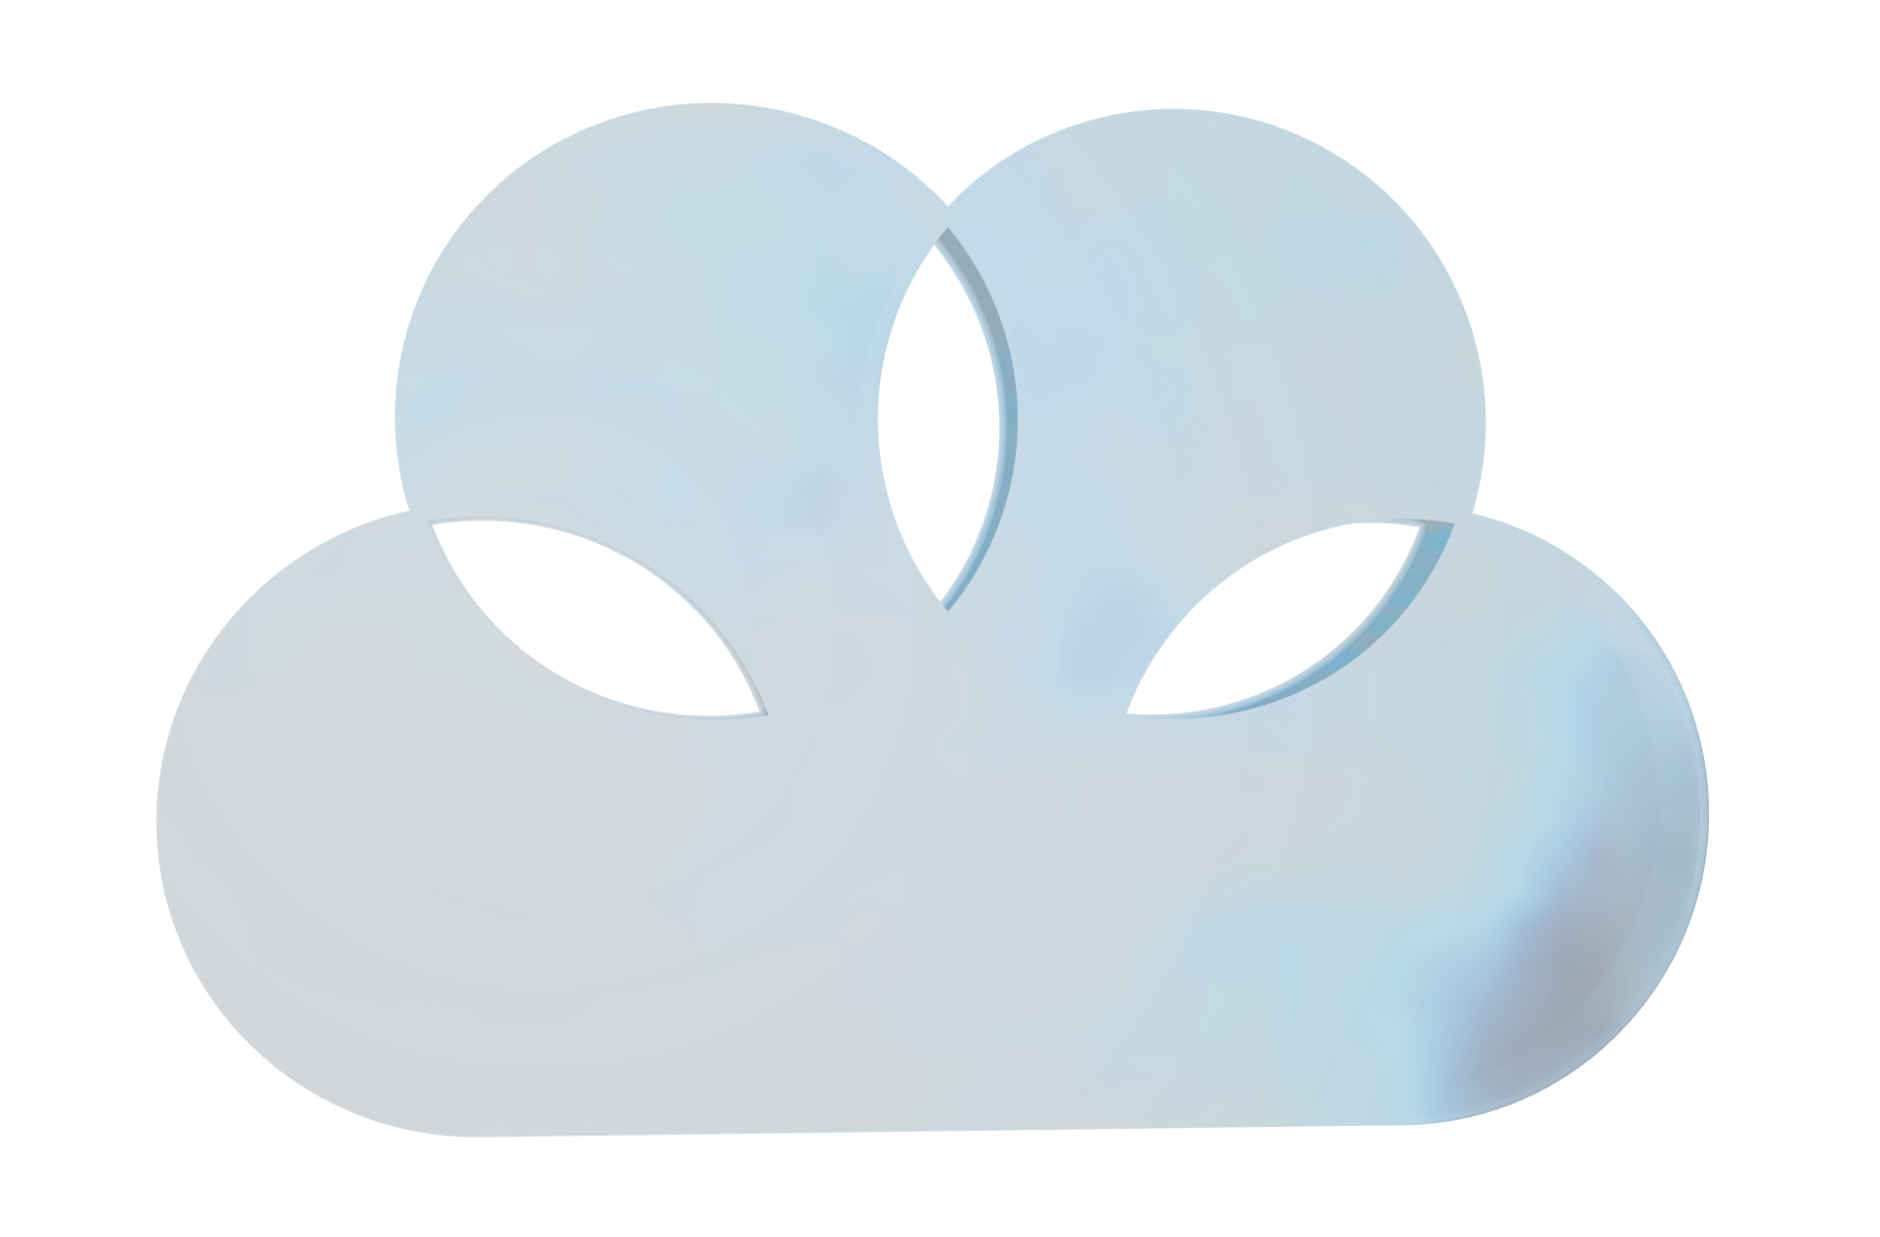
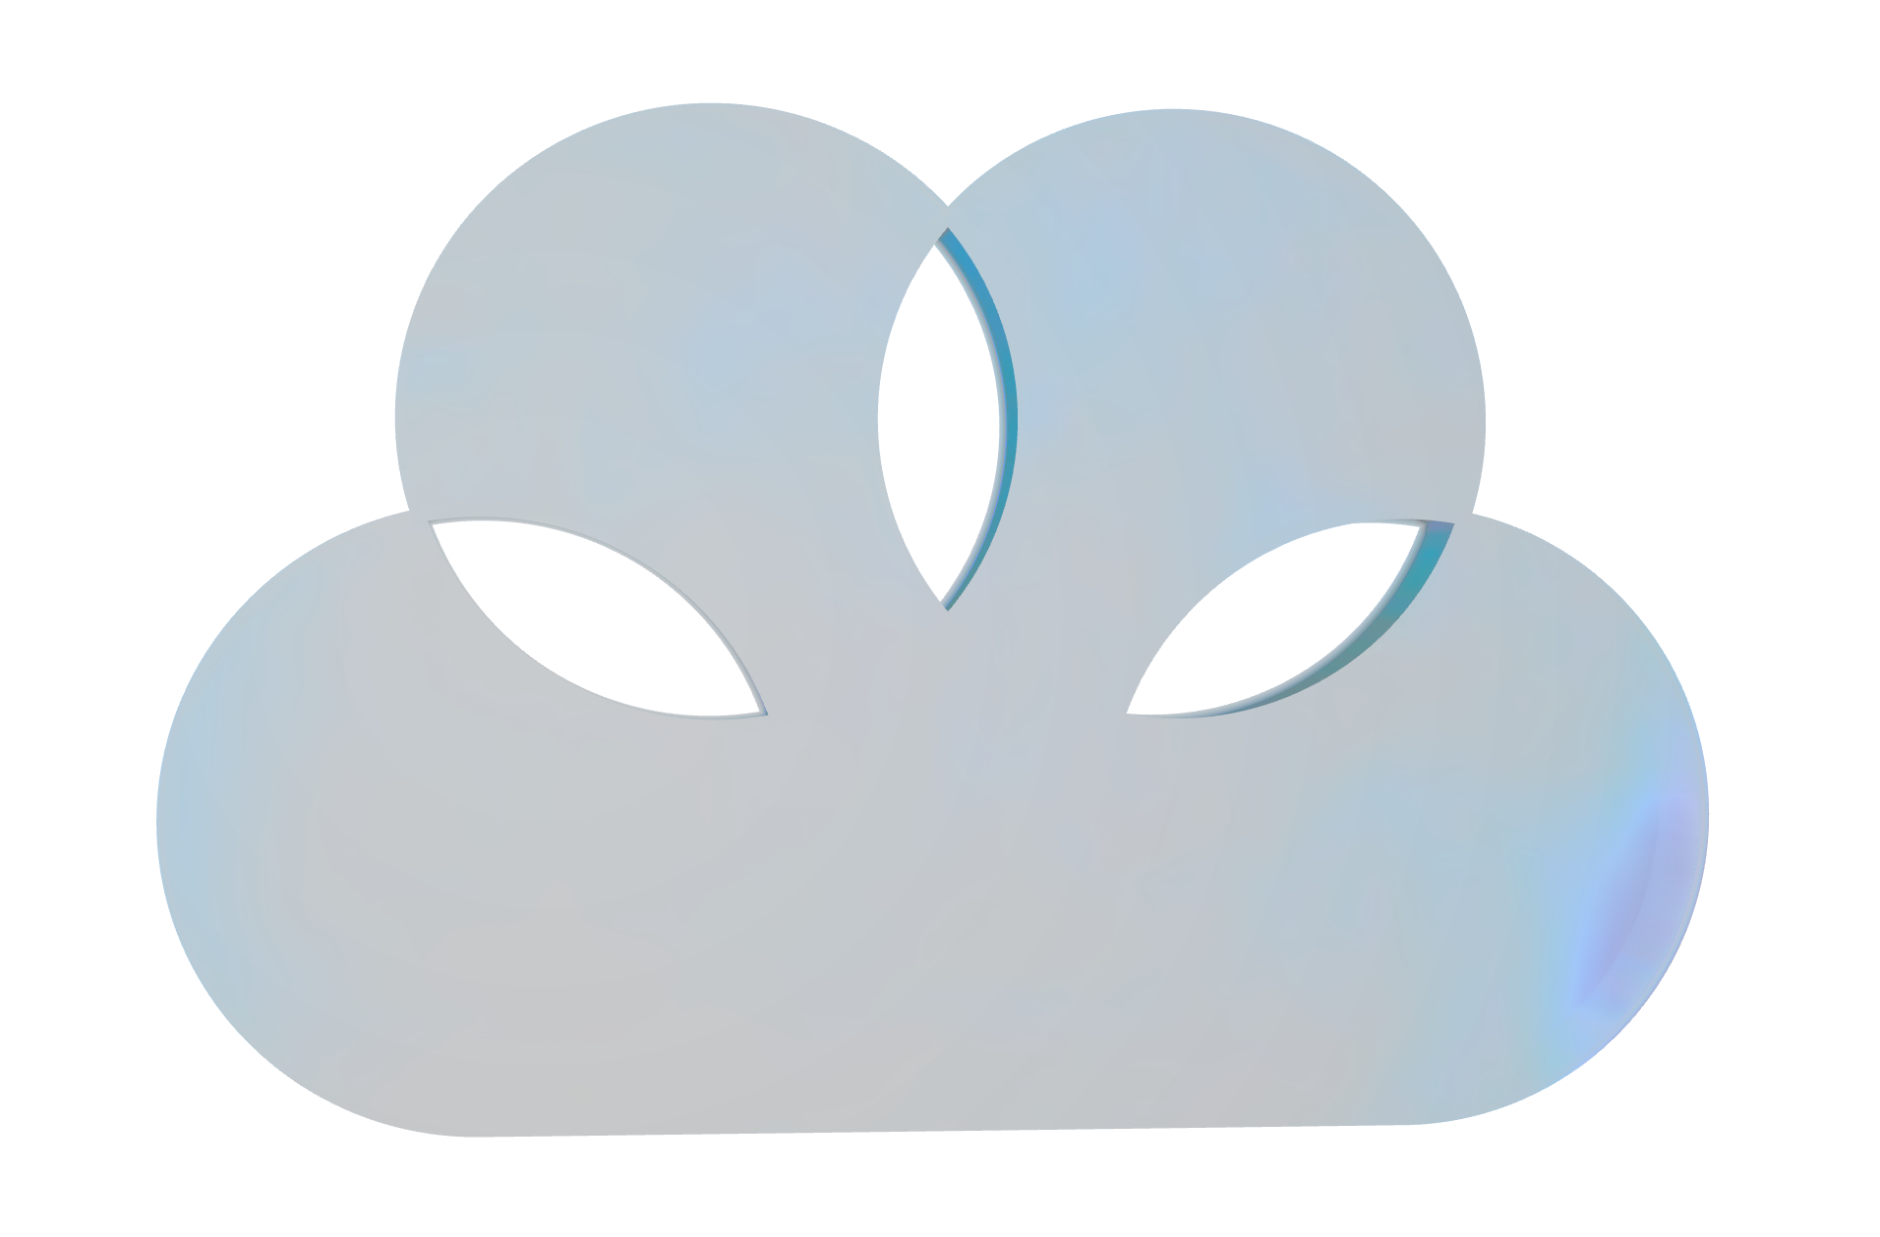
update render

diff --git a/packages/logo-renderer/src/renderer/index.tsx b/packages/logo-renderer/src/renderer/index.tsx
@@ -31,6 +31,7 @@ import {
 	syncPointerInteractionMode,
 } from "./runtime/pointer-input";
 import type { HeroRuntimeState } from "./runtime/state";
+import { ENV_BASE_YAW } from "./runtime/environment-input";
 
 const LOGO_VIEWPORT_ASPECT = 1.52;
 
@@ -39,7 +40,7 @@ const DEFAULT_CONTROLS: RenderControls = {
 	pitch: 0,
 	radius: cameraRadiusForFov(DEFAULT_CAMERA_FOV),
 	fov: DEFAULT_CAMERA_FOV,
-	envYaw: 0,
+	envYaw: ENV_BASE_YAW,
 	envPitch: 0,
 	insideRendering: true,
 	outsideRendering: true,
@@ -152,6 +153,8 @@ export type LocalAiLogoShaderProps = LogoRendererAssets & {
 	sx?: Parameters<typeof stylex.props>[0] | undefined;
 	/** Camera framing aspect; defaults to the hero stage's 1.52. */
 	viewportAspect?: number | undefined;
+	/** Enables the pointer-painted square imprint. */
+	paintOnHover?: boolean | undefined;
 	/** Locks the canonical environment for decorative instances; the object still follows the cursor. */
 	staticPose?: boolean | undefined;
 };
@@ -164,6 +167,7 @@ export function LocalAiLogoShader({
 	onFirstFrame,
 	sx,
 	viewportAspect = LOGO_VIEWPORT_ASPECT,
+	paintOnHover = true,
 	staticPose = false,
 }: LocalAiLogoShaderProps) {
 	const prefersReducedMotion = usePrefersReducedMotion();
@@ -281,6 +285,7 @@ export function LocalAiLogoShader({
 			lastRippleSpawnTime: Number.NEGATIVE_INFINITY,
 			pointerInsideCanvas: false,
 			isCoarsePointer: coarsePointerRef.current,
+			paintOnHover,
 		};
 		stateRef.current = state;
 
@@ -383,9 +388,7 @@ export function LocalAiLogoShader({
 				return;
 			}
 			const rendererOptions: NonNullable<Parameters<typeof createEve5Renderer>[2]> = {
-				// The hero surface is always dark. Day/night only selects the cubemap;
-				// it must not switch to the pale light-mode mask composite.
-				theme: "dark",
+				theme: prefersDarkScheme ? "dark" : "light",
 				bloom: true,
 				backRefraction: true,
 			};
@@ -464,6 +467,7 @@ export function LocalAiLogoShader({
 		modelUrl,
 		dayUrl,
 		nightUrl,
+		paintOnHover,
 		coarsePointerRef,
 		handleCanvasRevealed,
 		handleFallback,

diff --git a/tests/unit/renderer-pointer.spec.ts b/tests/unit/renderer-pointer.spec.ts
@@ -20,34 +20,35 @@ test("renderer environment interaction follows its own bounds", () => {
 	});
 	expect(translated).toEqual(localPoint);
 	expect(mapAt(0.5, 0.5)).toEqual({
-		envYaw: 0,
+		envYaw: 0.9,
 		envPitch: 0,
 		normalizedX: 0,
 		normalizedY: 0,
 	});
 });
 
-test("a local vertical band scrubs one smooth orbital day path", () => {
+test("vertical movement tilts the environment without crossing dull cubemap faces", () => {
 	const above = mapAt(0.5, -0.25);
 	const below = mapAt(0.5, 1.25);
 	const farAbove = mapAt(0.5, -1);
 	const farBelow = mapAt(0.5, 2);
 	expect(above.normalizedY).toBe(-1);
 	expect(below.normalizedY).toBe(1);
-	expect(above.envYaw).toBeLessThan(-2);
-	expect(below.envYaw).toBeGreaterThan(2);
-	expect(above.envPitch).toBeLessThan(0);
-	expect(below.envPitch).toBeGreaterThan(0);
+	expect(above.envYaw).toBe(0.9);
+	expect(below.envYaw).toBe(0.9);
+	expect(above.envPitch).toBe(-0.24);
+	expect(below.envPitch).toBe(0.24);
 	expect(farAbove).toEqual(above);
 	expect(farBelow).toEqual(below);
 });
 
-test("horizontal movement cannot change the lighting cycle", () => {
+test("horizontal movement rotates within the reflective cubemap sector", () => {
 	const left = mapAt(0, 0.65);
 	const center = mapAt(0.5, 0.65);
 	const right = mapAt(1, 0.65);
-	expect(left.envYaw).toBe(center.envYaw);
-	expect(right.envYaw).toBe(center.envYaw);
+	expect(left.envYaw).toBeCloseTo(0.35);
+	expect(center.envYaw).toBe(0.9);
+	expect(right.envYaw).toBeCloseTo(1.45);
 	expect(left.envPitch).toBe(center.envPitch);
 	expect(right.envPitch).toBe(center.envPitch);
 });

diff --git a/src/styles/sections-styles.ts b/src/styles/sections-styles.ts
@@ -18,8 +18,8 @@ const storyDemoEnter = stylex.keyframes({
 const pageWidth = `min(${lengths.pageWidth}, calc(100% - ${lengths.pageGutter}))`;
 const heroStagePadding = `calc((100% - ${pageWidth}) / 2)`;
 const heroStageClippedWidth = `calc(100% - ${heroStagePadding})`;
-const scrimAmbient = `color-mix(in oklab, ${colors.background} 48%, transparent)`;
-const scrimDirect = `color-mix(in oklab, ${colors.background} 32%, transparent)`;
+const scrimAmbient = `color-mix(in oklab, ${colors.background} 28%, transparent)`;
+const scrimDirect = `color-mix(in oklab, ${colors.background} 68%, transparent)`;
 const kittyCarouselGutter = `max(24px, calc((100vw - ${lengths.pageWidth}) / 2))`;
 const kittyCardWidth = "min(620px, calc(100vw - 48px))";
 
@@ -66,7 +66,7 @@ export const styles = stylex.create({
 		inset: { default: null, "::before": "-18% -22%" },
 		backgroundImage: {
 			default: null,
-			"::before": `radial-gradient(ellipse 68% 62% at 50% 44%, ${scrimAmbient}, transparent 72%), radial-gradient(ellipse 44% 46% at 50% 40%, ${scrimDirect}, transparent 70%)`,
+			"::before": `radial-gradient(ellipse 68% 62% at 50% 44%, ${scrimAmbient}, transparent 72%), radial-gradient(ellipse 34% 36% at 50% 40%, ${scrimDirect}, transparent 70%)`,
 		},
 		pointerEvents: { default: null, "::before": "none" },
 	},
@@ -483,7 +483,7 @@ export const styles = stylex.create({
 		},
 		overscrollBehaviorX: "contain",
 		scrollbarWidth: "none",
-		touchAction: "pan-y",
+		touchAction: "pan-x pan-y",
 		"::-webkit-scrollbar": {
 			display: "none",
 		},

diff --git a/tests/unit/serve.spec.ts b/tests/unit/serve.spec.ts
@@ -1,0 +1,36 @@
+import { mkdtempSync, rmSync, writeFileSync } from "node:fs";
+import { tmpdir } from "node:os";
+import path from "node:path";
+import { afterEach, expect, test } from "bun:test";
+import { staticResponse } from "../../scripts/serve.mjs";
+
+const directories: string[] = [];
+
+afterEach(() => {
+	for (const directory of directories.splice(0)) {
+		rmSync(directory, { recursive: true, force: true });
+	}
+});
+
+test("dev routes return a retry response while the build output is missing", async () => {
+	const root = mkdtempSync(path.join(tmpdir(), "localstudio-serve-"));
+	directories.push(root);
+
+	const building = staticResponse("/", root, true);
+	expect(building?.status).toBe(503);
+	expect(building?.headers.get("retry-after")).toBe("1");
+	expect(await building?.text()).toContain("Building");
+
+	writeFileSync(path.join(root, "index.html"), "<body>Ready</body>");
+	const ready = staticResponse("/", root, true);
+	expect(ready?.status).toBe(200);
+	expect(ready?.headers.get("cache-control")).toBe("no-store");
+	expect(await ready?.text()).toContain("/__stamp");
+});
+
+test("preview routes still fail when the production build is missing", () => {
+	const root = mkdtempSync(path.join(tmpdir(), "localstudio-serve-"));
+	directories.push(root);
+
+	expect(() => staticResponse("/", root, false)).toThrow(/ENOENT/);
+});

diff --git a/packages/logo-renderer/src/renderer/runtime/pointer-input.ts b/packages/logo-renderer/src/renderer/runtime/pointer-input.ts
@@ -107,6 +107,7 @@ export function createPointerController({
     if (
       !canvas ||
       !mesh ||
+      !state.paintOnHover ||
       event.pointerType !== "mouse" ||
       !evePointerInteractionMode(state.isCoarsePointer).paintEnabled
     ) {
@@ -191,8 +192,15 @@ export function createPointerController({
   const onPointerMove = (event: PointerEvent) => {
     updateEnvRotation(event.clientX, event.clientY);
     updatePaintBrush(event);
-    const inside = event.pointerType === "mouse" && pointerInsideRect(event.clientX, event.clientY);
-    if (inside && !state.pointerInsideCanvas && evePointerInteractionMode(state.isCoarsePointer).paintEnabled) {
+    const inside =
+      state.paintOnHover &&
+      event.pointerType === "mouse" &&
+      pointerInsideRect(event.clientX, event.clientY);
+    if (
+      inside &&
+      !state.pointerInsideCanvas &&
+      evePointerInteractionMode(state.isCoarsePointer).paintEnabled
+    ) {
       spawnRippleAtBrushCell();
     }
     state.pointerInsideCanvas = inside;

diff --git a/src/sections/Hero.tsx b/src/sections/Hero.tsx
@@ -16,6 +16,13 @@ const HeroDemo = lazy(() =>
 );
 
 const settle = { opacity: 1, y: 0, filter: "blur(0px)" };
+const resumeAfterDevReload =
+	!import.meta.env.PROD &&
+	(globalThis.sessionStorage?.getItem("localstudio:dev-reload") === "1" ||
+		globalThis.performance
+			?.getEntriesByType("navigation")
+			.some((entry) => entry.toJSON().type === "reload"));
+globalThis.sessionStorage?.removeItem("localstudio:dev-reload");
 
 const fastClock = {
 	now: () => Date.now(),
@@ -40,7 +47,7 @@ export function Hero() {
 	const clock = useHeroClock();
 	const reduceMotion = useReducedMotion();
 	const enter = (delay: number) => ({
-		initial: reduceMotion ? false : { opacity: 0, y: 12, filter: "blur(6px)" },
+		initial: reduceMotion || resumeAfterDevReload ? false : { opacity: 0, y: 12, filter: "blur(6px)" },
 		animate: settle,
 		transition: { ...motion.heroEnter, delay },
 	});

diff --git a/packages/logo-renderer/src/renderer/runtime/environment-input.ts b/packages/logo-renderer/src/renderer/runtime/environment-input.ts
@@ -1,7 +1,8 @@
 const ENV_EFFECTIVE_HALF_WIDTH_RATIO = 0.5;
 const ENV_EFFECTIVE_HALF_HEIGHT_RATIO = 0.75;
-const ENV_DAY_YAW_RANGE = Math.PI * 0.72;
-const ENV_ORBIT_TILT = 0.45;
+export const ENV_BASE_YAW = 0.9;
+export const ENV_HORIZONTAL_YAW_RANGE = 0.55;
+const ENV_VERTICAL_PITCH_RANGE = 0.24;
 
 function clampSigned(value: number) {
   return Math.max(-1, Math.min(1, value));
@@ -24,10 +25,9 @@ export function mapPointerToLocalEnvironment({
   const normalizedY = clampSigned(
     (clientY - centerY) / Math.max(1, rect.height * ENV_EFFECTIVE_HALF_HEIGHT_RATIO),
   );
-  const dayPhase = normalizedY * ENV_DAY_YAW_RANGE;
   return {
-    envYaw: dayPhase,
-    envPitch: Math.sin(dayPhase) * ENV_ORBIT_TILT,
+    envYaw: ENV_BASE_YAW + normalizedX * ENV_HORIZONTAL_YAW_RANGE,
+    envPitch: normalizedY * ENV_VERTICAL_PITCH_RANGE,
     normalizedX,
     normalizedY,
   };

diff --git a/tests/unit/build-watch.spec.ts b/tests/unit/build-watch.spec.ts
@@ -1,0 +1,27 @@
+import { mkdtempSync, readFileSync, rmSync, writeFileSync } from "node:fs";
+import { tmpdir } from "node:os";
+import path from "node:path";
+import { afterEach, expect, test } from "bun:test";
+import { sourceStamp } from "../../scripts/build.mjs";
+
+const directories: string[] = [];
+
+afterEach(() => {
+	for (const directory of directories.splice(0)) {
+		rmSync(directory, { recursive: true, force: true });
+	}
+});
+
+test("source stamps ignore read-only filesystem events", () => {
+	const root = mkdtempSync(path.join(tmpdir(), "localstudio-watch-"));
+	directories.push(root);
+	const file = path.join(root, "asset.png");
+	writeFileSync(file, "asset");
+	const before = sourceStamp([root]);
+
+	readFileSync(file);
+	expect(sourceStamp([root])).toBe(before);
+
+	writeFileSync(file, "changed asset");
+	expect(sourceStamp([root])).not.toBe(before);
+});

diff --git a/tests/unit/apca-contrast.spec.js b/tests/unit/apca-contrast.spec.js
@@ -52,7 +52,7 @@ test("APCA roles", () => {
 
 	const light = readFileSync("packages/logo-renderer/src/renderer/shaders/postprocess/light-composite.wgsl", "utf8");
 	const dark = readFileSync("packages/logo-renderer/src/renderer/shaders/bloom/composite.wgsl", "utf8");
-	const lightFloor = Number(light.match(/mix\(sky, vec3f\(1\.0\), ([\d.]+)\)/)?.[1]);
+	const lightFloor = Number(light.match(/MIN_LIGHT_DISPLAY_CHANNEL = ([\d.]+)/)?.[1]);
 	const darkCap = Number(dark.match(/MAX_DARK_DISPLAY_LUMA = ([\d.]+)/)?.[1]);
 	for (const [scheme, channel] of [["light", lightFloor], ["dark", darkCap]]) {
 		const hex = `#${Math.round(255 * channel).toString(16).padStart(2, "0").repeat(3)}`;

diff --git a/packages/logo-renderer/src/renderer/mobile-motion.ts b/packages/logo-renderer/src/renderer/mobile-motion.ts
@@ -1,3 +1,5 @@
+import { ENV_BASE_YAW, ENV_HORIZONTAL_YAW_RANGE } from "./runtime/environment-input";
+
 export const MOBILE_AUTO_ROTATE_SPEED = 0.15;
 
 export type EvePointerInteractionMode = {
@@ -13,5 +15,5 @@ export function evePointerInteractionMode(isCoarsePointer: boolean): EvePointerI
 }
 
 export function mobileAutoEnvYaw(timeSeconds: number) {
-  return timeSeconds * MOBILE_AUTO_ROTATE_SPEED;
+  return ENV_BASE_YAW + Math.sin(timeSeconds * MOBILE_AUTO_ROTATE_SPEED) * ENV_HORIZONTAL_YAW_RANGE;
 }

diff --git a/src/sections/KittyLitter.tsx b/src/sections/KittyLitter.tsx
@@ -339,8 +339,8 @@ export function KittyLitter() {
 						animateToIndex(index, true);
 					}}
 					onPointerDown={(event) => {
-						if (!event.isPrimary) return;
-						if (event.pointerType === "mouse" && event.button !== 0) return;
+						if (!event.isPrimary || event.pointerType !== "mouse") return;
+						if (event.button !== 0) return;
 						dragState.current.moved = false;
 						carouselAnimation.current?.stop();
 						dragOrigin.current =

diff --git a/src/components/Header.tsx b/src/components/Header.tsx
@@ -231,6 +231,7 @@ export function Header() {
 	}
 
 	function scheduleMenuClose() {
+		if (!openMenu) return;
 		cancelMenuClose();
 		closeTimerRef.current = window.setTimeout(() => {
 			setNav(closedNav);
